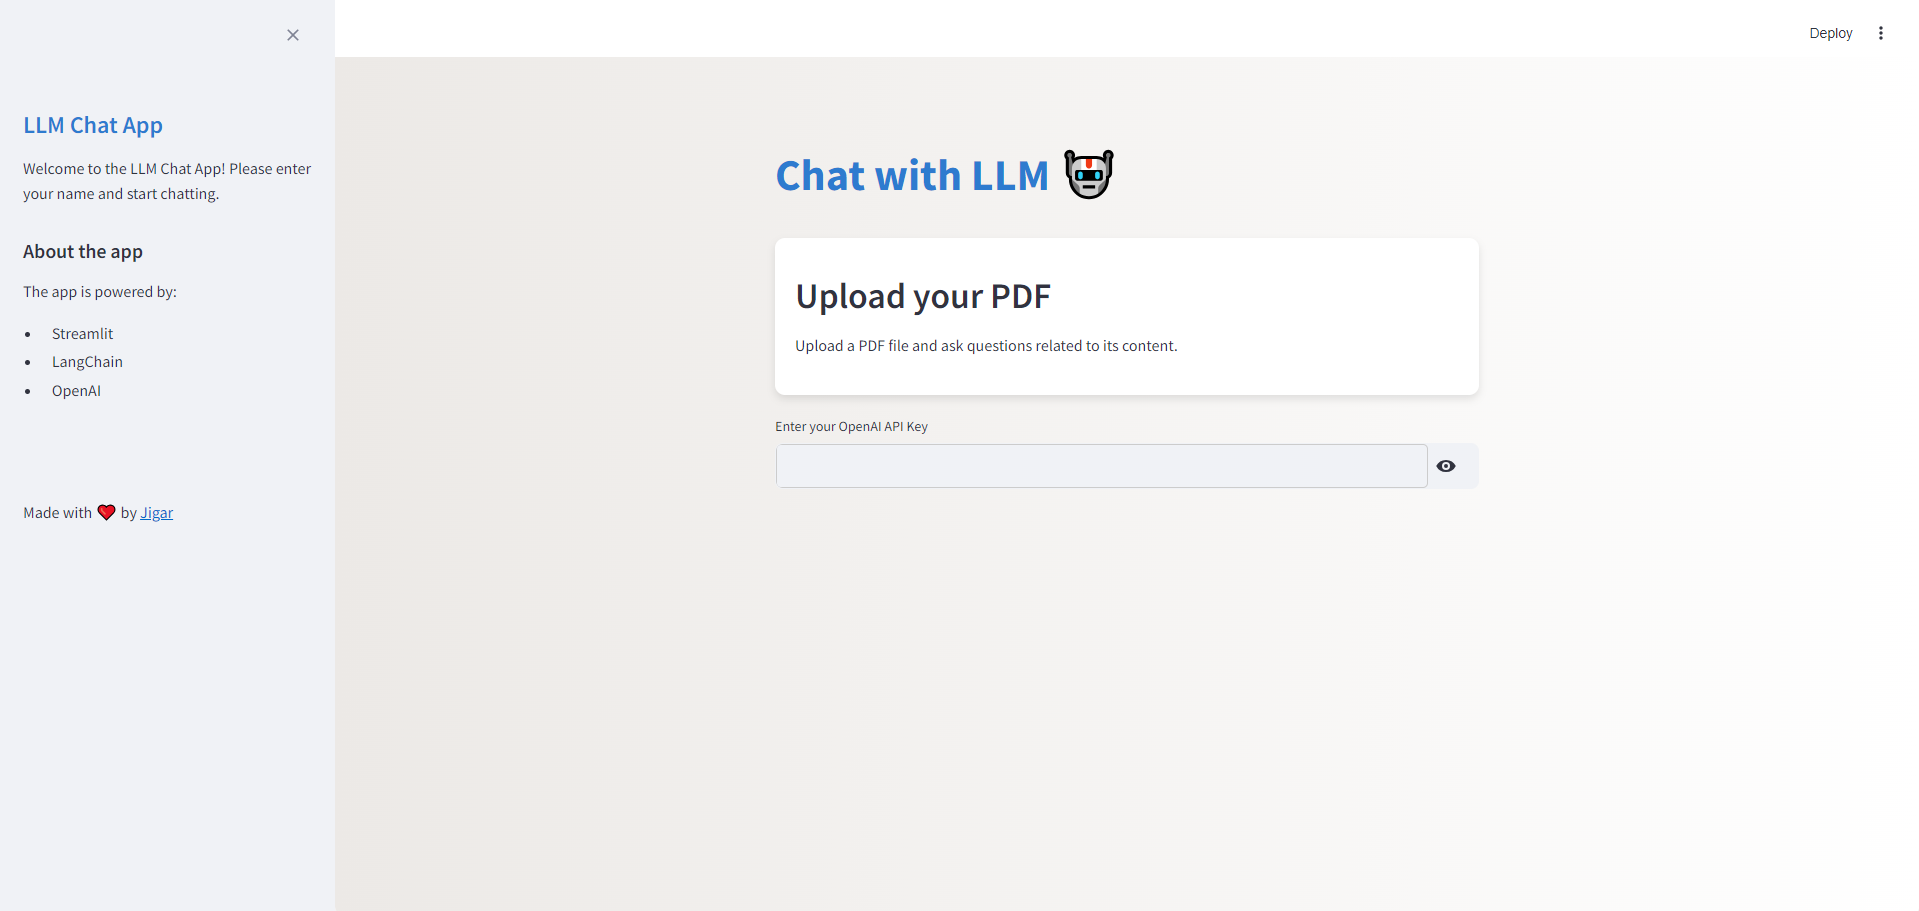
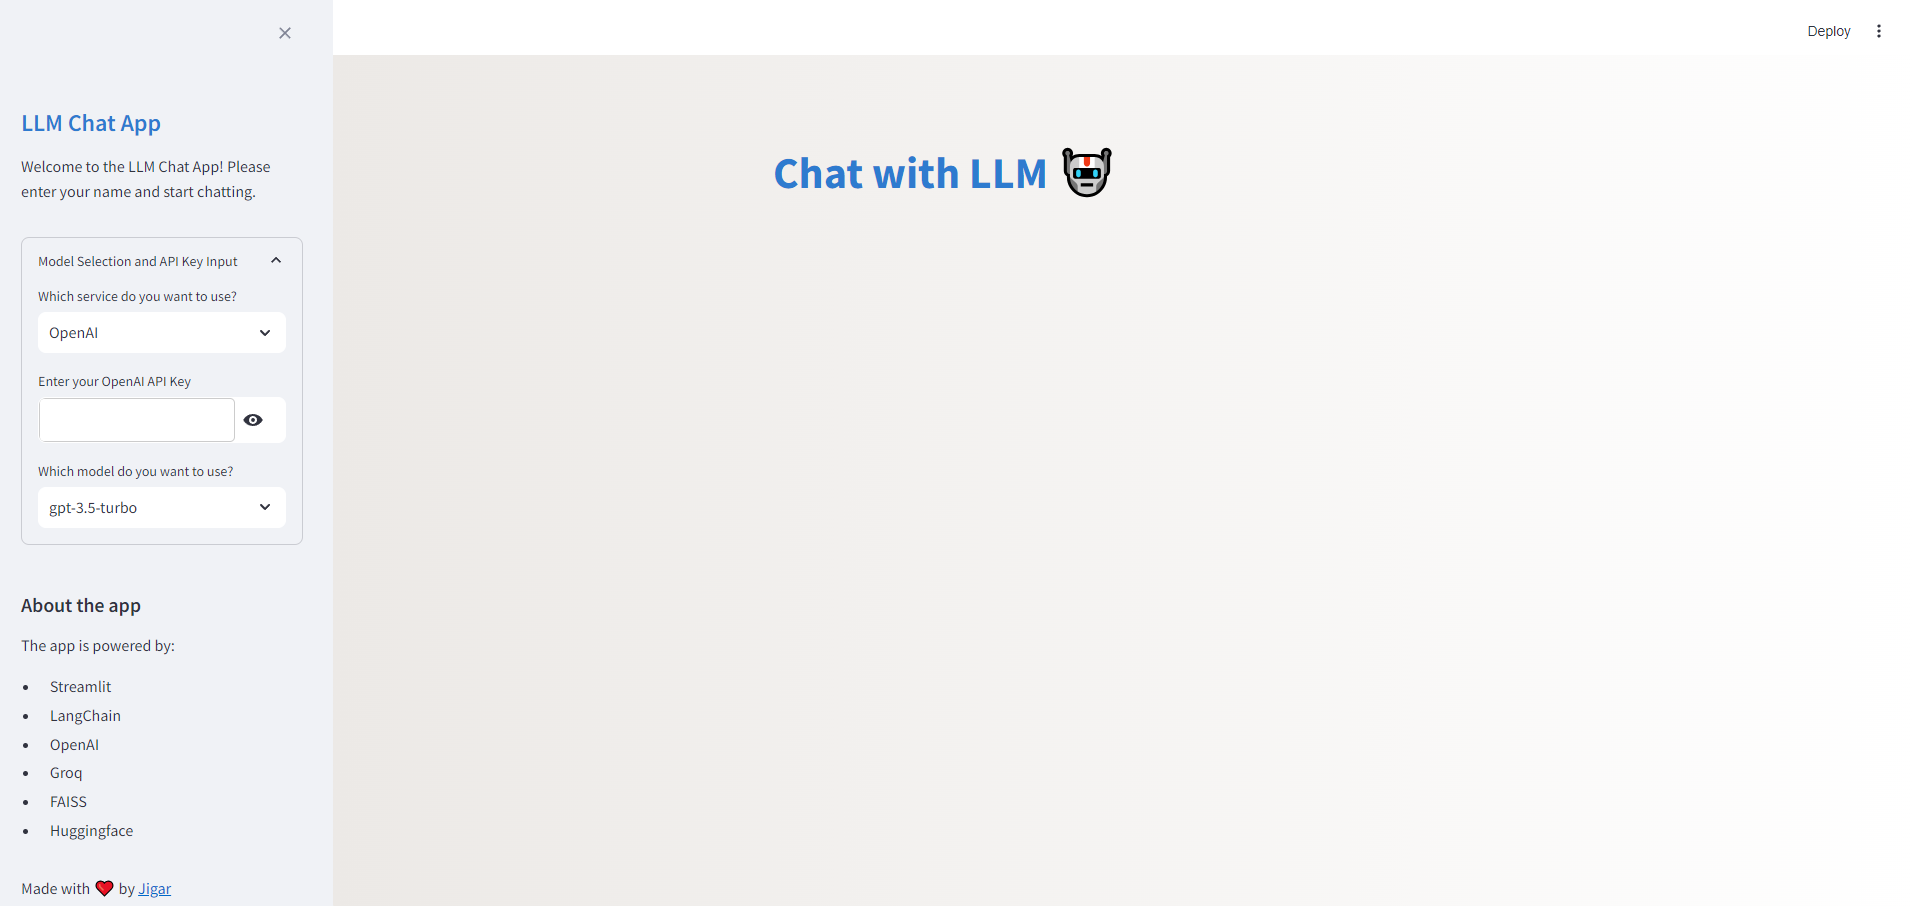
Updated read me file

diff --git a/css/sidebar.py b/css/sidebar.py
@@ -44,8 +44,11 @@ def render_sidebar():
                     - LangChain
                     - OpenAI
                     - Groq
+                    - FAISS
+                    - Huggingface
                     ''')
-        
+        add_vertical_space(1)
+        st.write("Made with ❤ by [Jigar](https://github.com/jigarborad)")
 
         
         return model, api_key

diff --git a/ReadMe.md b/ReadMe.md
@@ -1,10 +1,11 @@
 # LLM Chat App 🤖
 
-Welcome to the LLM Chat App, a powerful and interactive web application that allows you to chat with a Language Model (LLM) and ask questions about the content of uploaded PDF files. The app leverages the capabilities of Streamlit, LangChain, OpenAI, and FAISS to provide an intuitive and user-friendly experience.
+Welcome to the LLM Chat App, a powerful and interactive web application that allows you to chat with a Language Model (LLM) and ask questions about the content of uploaded PDF files. The app leverages the capabilities of Streamlit, LangChain, OpenAI, Groq, and FAISS to provide an intuitive and user-friendly experience.
 
-**Access this app using following web address**
-- [LLM Chat Ragg applictaion](https://llmchatrag.streamlit.app/)
-    - ⚠ Note: We do not save your secret key anywhere so its safe to enter your key
+**Access this app using the following web address:**
+- [LLM Chat RAG Application](https://llmchatrag.streamlit.app/)
+    - ⚠ Note: We do not save your secret key anywhere, so it's safe to enter your key.
+
 ## Features ✨
 
 - **Upload PDFs:** Easily upload your PDF documents for processing.
@@ -12,13 +13,29 @@ Welcome to the LLM Chat App, a powerful and interactive web application that all
 - **Text Extraction and Chunking:** Extract text from PDFs and split it into manageable chunks for efficient processing.
 - **Vector Store:** Utilize FAISS to create and manage vector stores for fast similarity searches.
 - **Custom CSS:** Enjoy a modern and visually appealing interface with a custom-designed CSS.
+- **Support for Multiple Models:** Choose between OpenAI and Groq models based on your preference and API key.
+- **Groq Models:** Currently free to use.
+- **Embeddings:** Use HuggingFace embeddings for Groq models and OpenAI embeddings for OpenAI models.
 
 ## Technologies Used
 
 - **Streamlit:** For building the interactive web application.
 - **LangChain:** For managing text processing and language model interactions.
 - **OpenAI:** Powering the language model to understand and respond to user queries.
+- **Groq:** Alternative LLM for text queries, currently free to use.
 - **FAISS:** Efficient vector search for handling large text data.
+- **HuggingFace:** Providing embeddings for Groq models.
+- **OpenAI Embeddings:** Used for OpenAI models.
+
+## Available Models
+
+### OpenAI Models
+- **gpt-3.5-turbo**
+
+### Groq Models
+- **llama3-70b-8192**
+- **mixtral-8x7b-32768**
+- **llama3-8b-8192**
 
 ## Usage
 ⚠ **Please refer to the [Installation instructions](#installation) below before directly running the app.**
@@ -26,9 +43,9 @@ Welcome to the LLM Chat App, a powerful and interactive web application that all
    ```sh
    streamlit run app.py
    ```
-2. **Enter Open AI Key:**
-    - If you are running the code for the first time, enter your Open AI key.
-    - The key will be saved in the .env file and you won't need to enter it again.
+2. **Enter API Key:**
+    - If you are running the code for the first time, enter your OpenAI or Groq API key.
+    - The key will be saved in the session state and you won't need to enter it again.
 
 3. **Upload a PDF:**
    - Click on "Upload a PDF file" and select a PDF from your local machine.
@@ -42,22 +59,15 @@ Welcome to the LLM Chat App, a powerful and interactive web application that all
 **Workflow of RAG**
 ![Workflow](images/how_this_works.png)
 
-
 **The home screen of the LLM Chat App.**
 ![Home Screen](images/home_screen.png)
-
-
-**Uploading a PDF file for processing.**
-![Upload PDF](images/upload_pdf.png)
-
 
 **Interactive chat interface to ask questions about the PDF content.**
 ![Chat Interface](images/chat_interface.png)
 
-
 ## Custom CSS
 
-The app includes custom CSS for a complete redesign, ensuring a modern and user-friendly interface. The styles are defined within the `st.markdown` call in the `app.py` file.
+The app includes custom CSS for a complete redesign, ensuring a modern and user-friendly interface. The styles are defined within the `styles.py` file and applied in `app.py`.
 
 ## Installation
 
@@ -66,7 +76,7 @@ The app includes custom CSS for a complete redesign, ensuring a modern and user-
    git clone https://github.com/jigarborad/llm-chat-app.git
    cd llm-chat-app
    ```
-2. **Create and activate the Virtual Environment:**
+2. **Create and Activate the Virtual Environment:**
 
     Open a terminal or command prompt, navigate to your project directory, and execute the following command to create a virtual environment named `venv`:
 
@@ -99,8 +109,12 @@ The app includes custom CSS for a complete redesign, ensuring a modern and user-
         conda activate venv
         ```
 
-
     Once activated, you should see `(venv)` prefixed before your command prompt. This indicates that you are now operating within the virtual environment.
+
+3. **Install the Required Packages:**
+   ```sh
+   pip install -r requirements.txt
+   ```
 
 ## About
 
